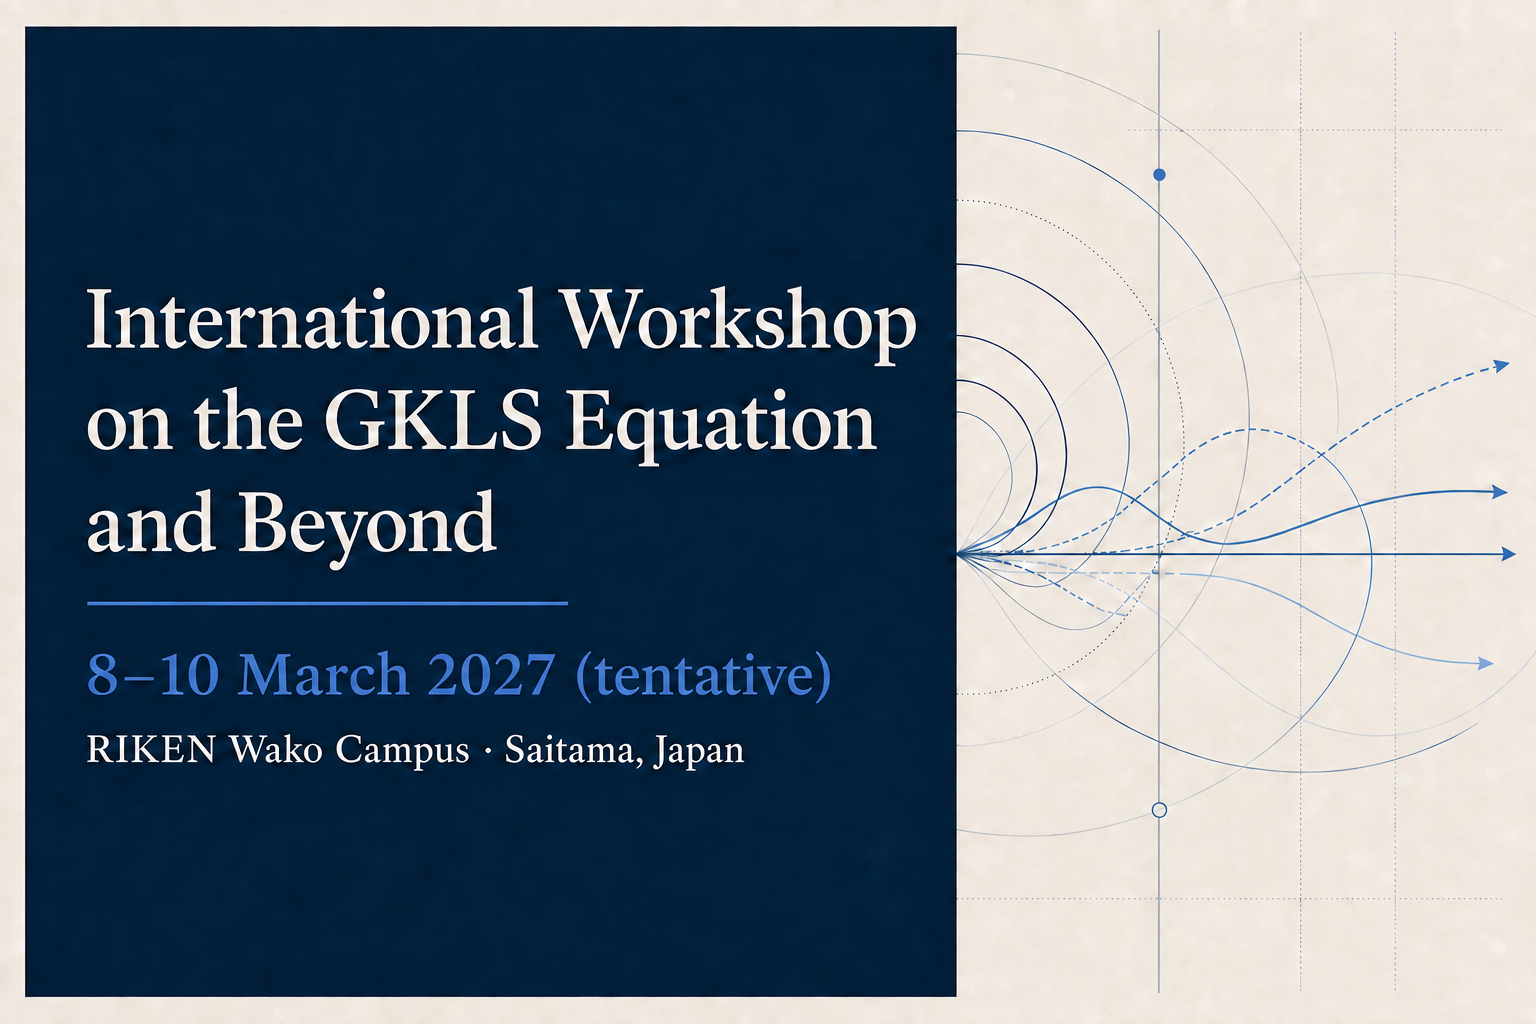
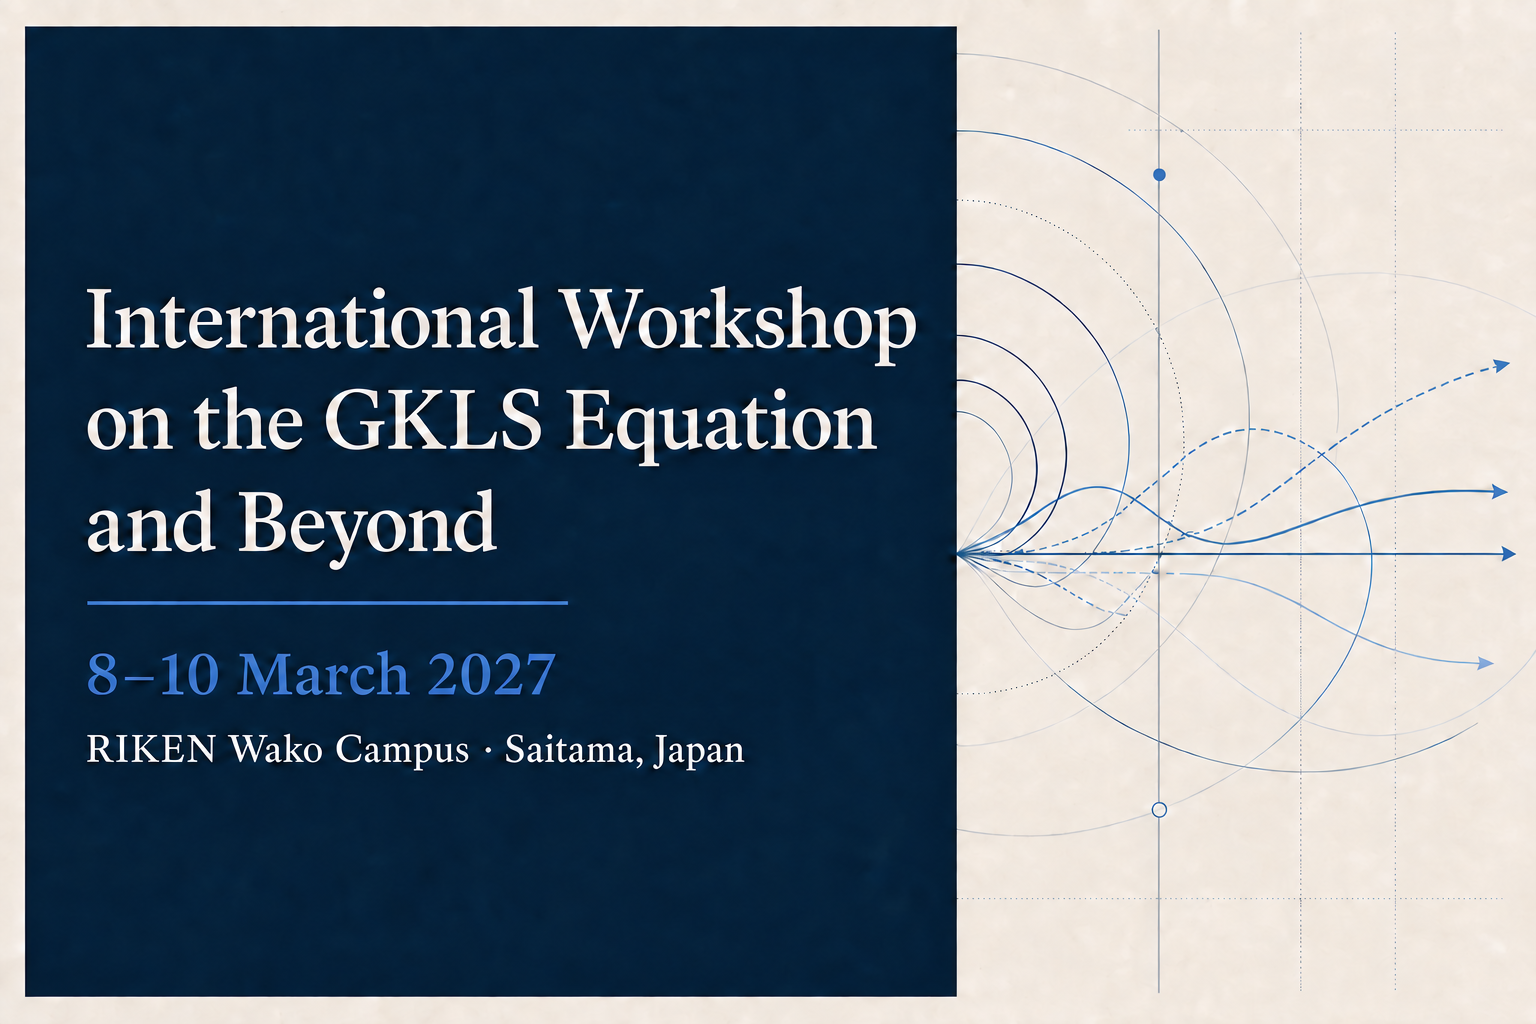
Add invited speakers and confirm workshop dates

diff --git a/app/content.ts b/app/content.ts
@@ -8,7 +8,7 @@
 export const workshop = {
   formalName: "International Workshop on the GKLS Equation and Beyond",
   heroTitle: "International Workshop on the GKLS Equation and Beyond",
-  date: "8–10 March 2027 (tentative)",
+  date: "8–10 March 2027",
   registrationDeadline: "TBA",
   venueShort: "RIKEN Wako Campus, Saitama, Japan",
   venueName: "RIKEN Wako Campus",
@@ -41,7 +41,28 @@ export type Speaker = {
  * { name: "Full Name", affiliation: "University", photo: "/speakers/name.jpg",
  *   talkTitle: "Title of the talk" }
  */
-export const invitedSpeakers: Speaker[] = [];
+export const invitedSpeakers: Speaker[] = [
+  {
+    name: "Dariusz Chruściński",
+    affiliation: "Nicolaus Copernicus University",
+  },
+  {
+    name: "Neill Lambert",
+    affiliation: "RIKEN",
+  },
+  {
+    name: "Kavan Modi",
+    affiliation: "Singapore University of Technology and Design",
+  },
+  {
+    name: "Takashi Mori",
+    affiliation: "Keio University",
+  },
+  {
+    name: "Chikako Uchiyama",
+    affiliation: "University of Yamanashi",
+  },
+];
 
 export type ProgramItem = {
   time: string;

diff --git a/app/layout.tsx b/app/layout.tsx
@@ -28,7 +28,7 @@ export async function generateMetadata(): Promise<Metadata> {
           url: `${origin}/og.png`,
           width: 1536,
           height: 1024,
-          alt: `${title} — 8–10 March 2027 (tentative), RIKEN Wako Campus`,
+          alt: `${title} — 8–10 March 2027, RIKEN Wako Campus`,
         },
       ],
     },

diff --git a/README.md b/README.md
@@ -2,7 +2,7 @@
 
 Source code for the official workshop website.
 
-- Workshop dates: 8–10 March 2027 (tentative)
+- Workshop dates: 8–10 March 2027
 - Venue: RIKEN Wako Campus, Saitama, Japan
 - Pages: Home, Venue, Program, Contact, and Links
 - Current site: https://gkls-equation-workshop.riken-quantu-3457.chatgpt.site/
